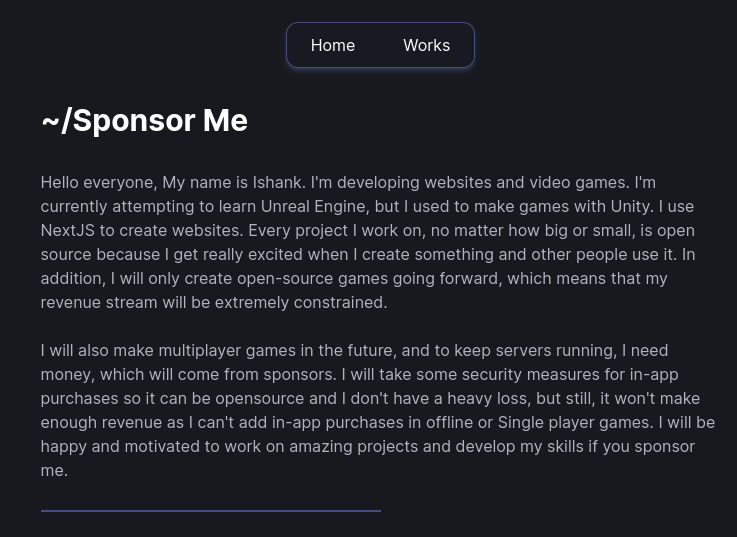
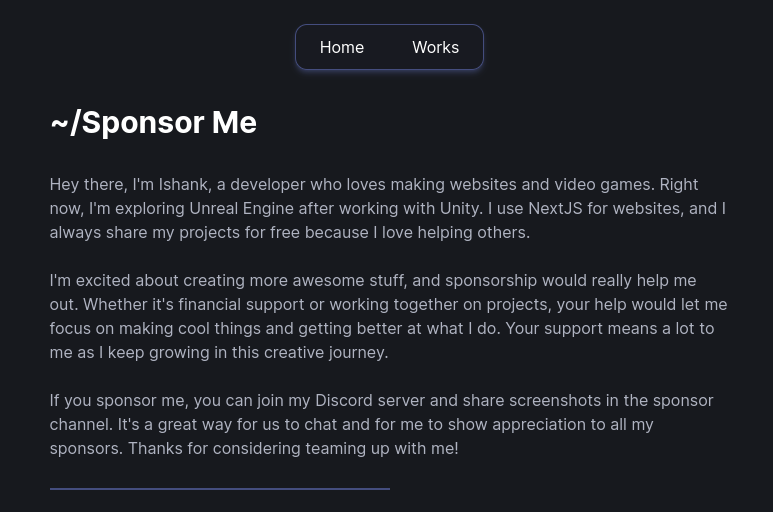
Update: sponsor page desc

diff --git a/src/components/Sponsor.jsx b/src/components/Sponsor.jsx
@@ -21,27 +21,30 @@ export default function SponsorComponent() {
         description={
           <>
             <p>
-              Hello everyone, My name is Ishank. I&apos;m developing websites
-              and video games. I&apos;m currently attempting to learn Unreal
-              Engine, but I used to make games with Unity. I use NextJS to
-              create websites. Every project I work on, no matter how big or
-              small, is open source because I get really excited when I create
-              something and other people use it. In addition, I will only create
-              open-source games going forward, which means that my revenue
-              stream will be extremely constrained.
+              Hey there, I&apos;m Ishank, a developer who loves making websites
+              and video games. Right now, I&apos;m exploring Unreal Engine after
+              working with Unity. I use NextJS for websites, and I always share
+              my projects for free because I love helping others.
             </p>
 
             <br className={"select-none"} />
 
             <p>
-              I will also make multiplayer games in the future, and to keep
-              servers running, I need money, which will come from sponsors. I
-              will take some security measures for in-app purchases so it can be
-              opensource and I don&apos;t have a heavy loss, but still, it
-              won&apos;t make enough revenue as I can&apos;t add in-app
-              purchases in offline or Single player games. I will be happy and
-              motivated to work on amazing projects and develop my skills if you
-              sponsor me.
+              I&apos;m excited about creating more awesome stuff, and
+              sponsorship would really help me out. Whether it&apos;s financial
+              support or working together on projects, your help would let me
+              focus on making cool things and getting better at what I do. Your
+              support means a lot to me as I keep growing in this creative
+              journey.
+            </p>
+
+            <br className={"select-none"} />
+
+            <p>
+              If you sponsor me, you can join my Discord server and share
+              screenshots in the sponsor channel. It&apos;s a great way for us
+              to chat and for me to show appreciation to all my sponsors. Thanks
+              for considering teaming up with me!
             </p>
           </>
         }
